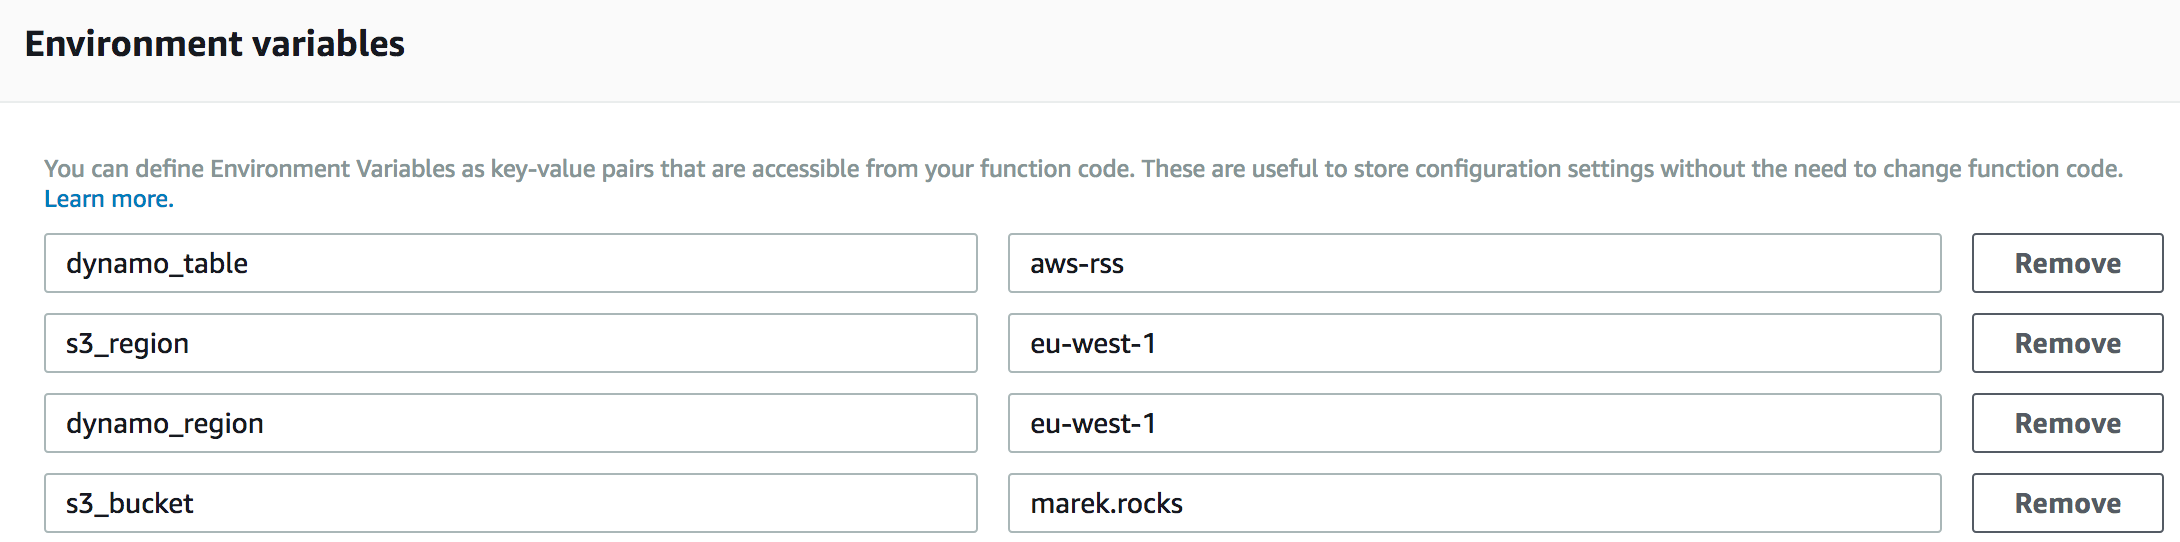
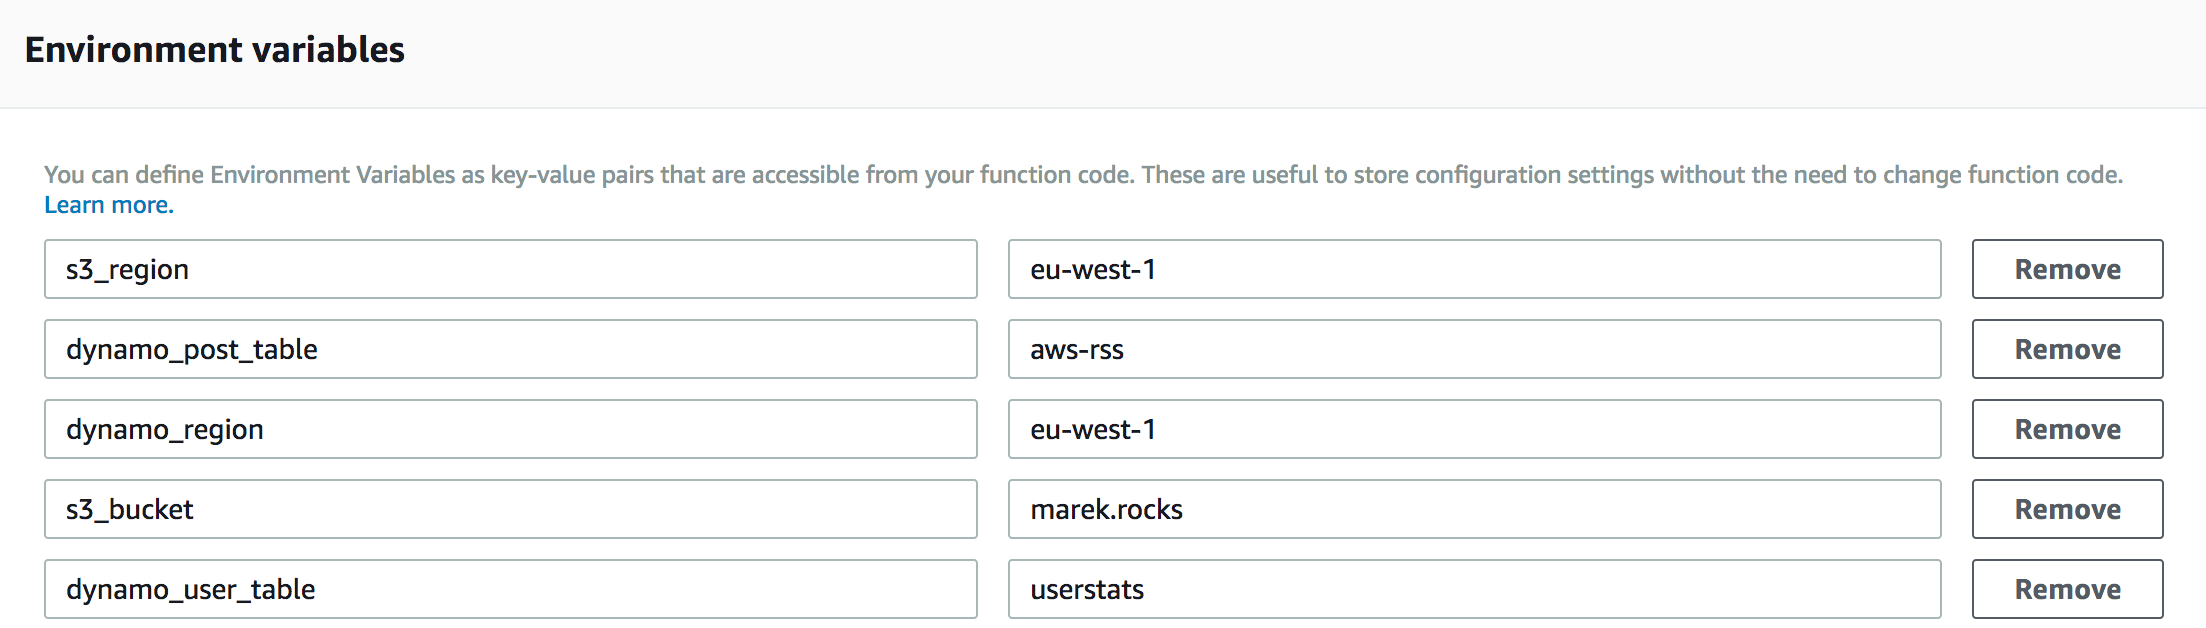
speed up dynamo sessions, added userstat tracing

diff --git a/lambda.py b/lambda.py
@@ -3,11 +3,15 @@
 # @marekq
 # www.marek.rocks
 
-import botocore.vendored.requests as requests, boto3, os, random, datetime, time
+import botocore.vendored.requests as requests, boto3, datetime, os, random, time
 
 # get a random image back
 def get_image():
     return '<img src="https://s3-'+os.environ['s3_region']+'.amazonaws.com/'+os.environ['s3_bucket']+'/images/'+str(random.randint(1,4))+'.jpg" width=100%>'
+  
+def get_dynamo_sess(): 
+    d   = boto3.resource('dynamodb', region_name = os.environ['dynamo_region'])
+    return d
   
 def get_date(x):
     y = time.time()
@@ -21,10 +25,9 @@ def get_date(x):
         return 'posted '+str(int(z)/3600)+' hours'
     
 # get all the blog posts from dynamodb    
-def get_dynamo():
-    d   = boto3.resource('dynamodb', region_name = os.environ['dynamo_region']).Table(os.environ['dynamo_table'])
+def get_posts():
     h   = []
-    
+    d   = get_dynamo_sess().Table(os.environ['dynamo_post_table'])
     for x in d.scan()['Items']:
         if x.has_key('desc'):
             h.append([x['timest'], x['title'], x['link'], x['desc']])
@@ -37,6 +40,16 @@ def get_dynamo():
 
     return y
 
+def write_dynamo(ip, co, ua):
+    d   = get_dynamo_sess().Table(os.environ['dynamo_user_table'])
+    d.put_item(Item = {
+        'unixts' : datetime.datetime.now().strftime('%Y-%m-%d %H:%M:%S'), 
+        'timest' : str(int(time.time())),
+        'ip' : ip,
+        'usera' : ua,
+        'country' : co
+    })
+    
 # parse the html file including the image
 def parse_html():
     h = '<html><head><title>Marek Kuczy&#324;ski</title><link rel="stylesheet" type="text/css" href="https://s3-'+os.environ['s3_region']+'.amazonaws.com/'+os.environ['s3_bucket']+'/main.css"></script></head>'
@@ -46,13 +59,18 @@ def parse_html():
     h += '<a target="_blank" href="http://nl.linkedin.com/in/marekkuczynski">linkedin</a> | '
     h += '<a href="https://s3-'+os.environ['s3_region']+'.amazonaws.com/'+os.environ['s3_bucket']+'/papers.html">university papers</a> | '
     h += '<a target="_blank" href="http://twitter.com/marekq">twitter</a><br><br>'
-    h += '<h3>AWS blog feeds</h3></center>'
-    h += get_dynamo()
-    h += '</body></html>'
+    h += '<h3>AWS blog feeds</h3><table width="800px"><tr><td>'
+    h += get_posts()
+    h += '</td></tr></table></center></body></html>'
     return h
 
 # return an html document when the lambda function is triggered
 def handler(event, context):
+    ip = str(event['headers']['X-Forwarded-For']).split(',')[0]
+    co = str(event['headers']['CloudFront-Viewer-Country'])
+    ua = str(event['headers']['User-Agent'])
+    write_dynamo(ip, co, ua)
+
     return {'statusCode': 200,
             'body': parse_html(),
             'headers': {'Content-Type': 'text/html'}}
